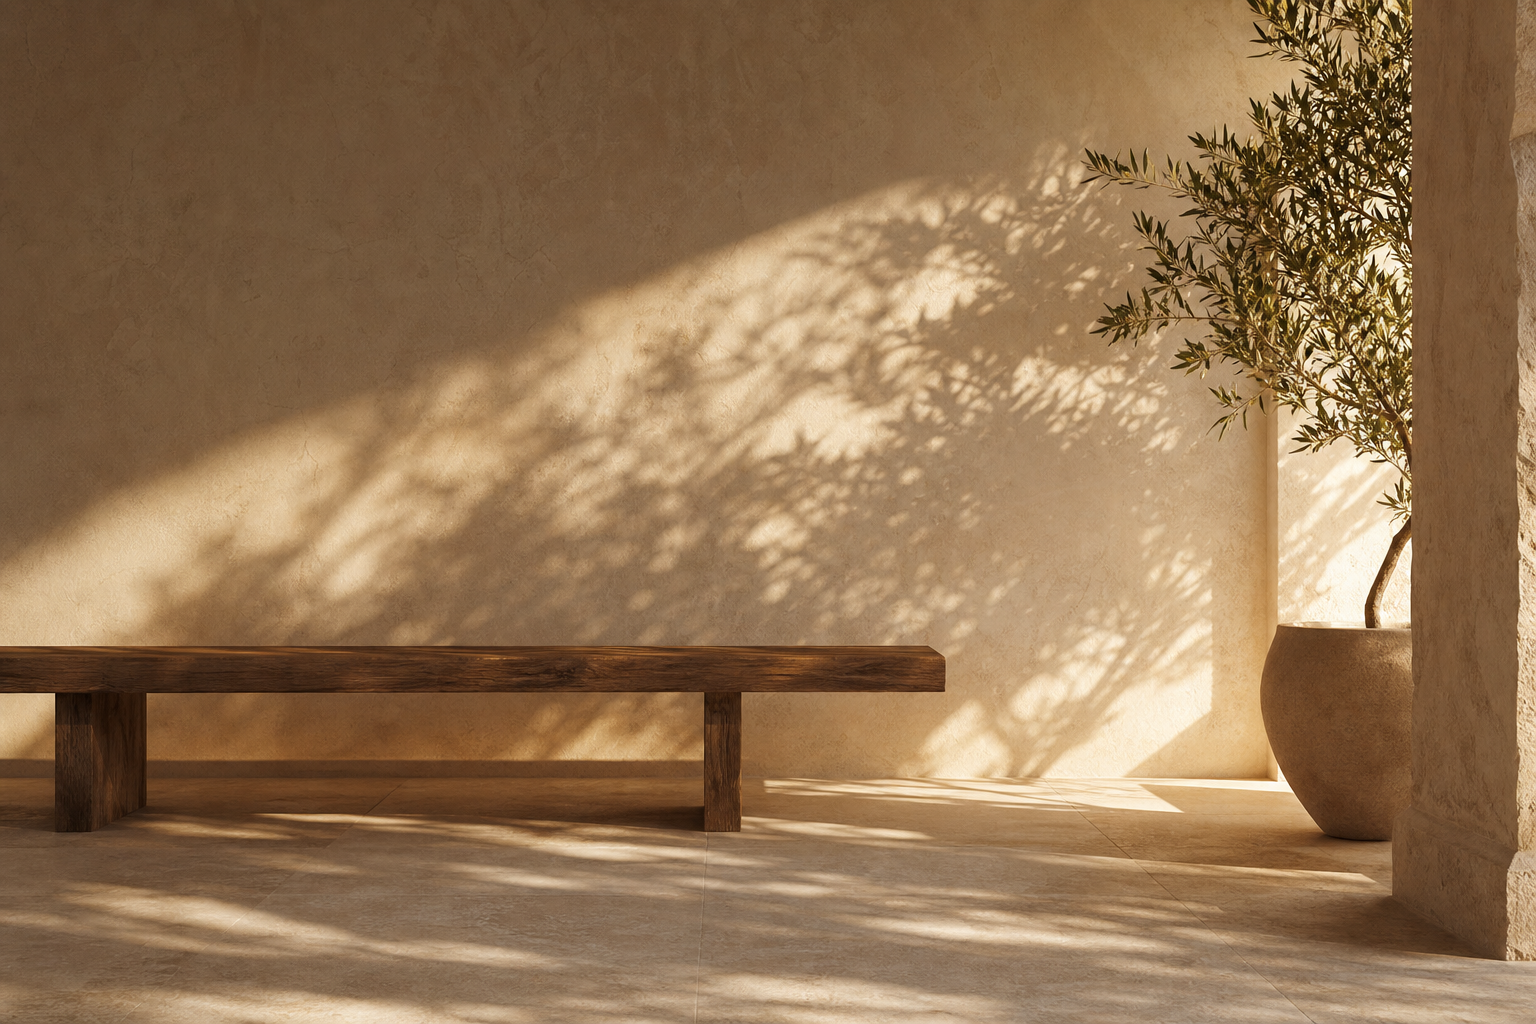
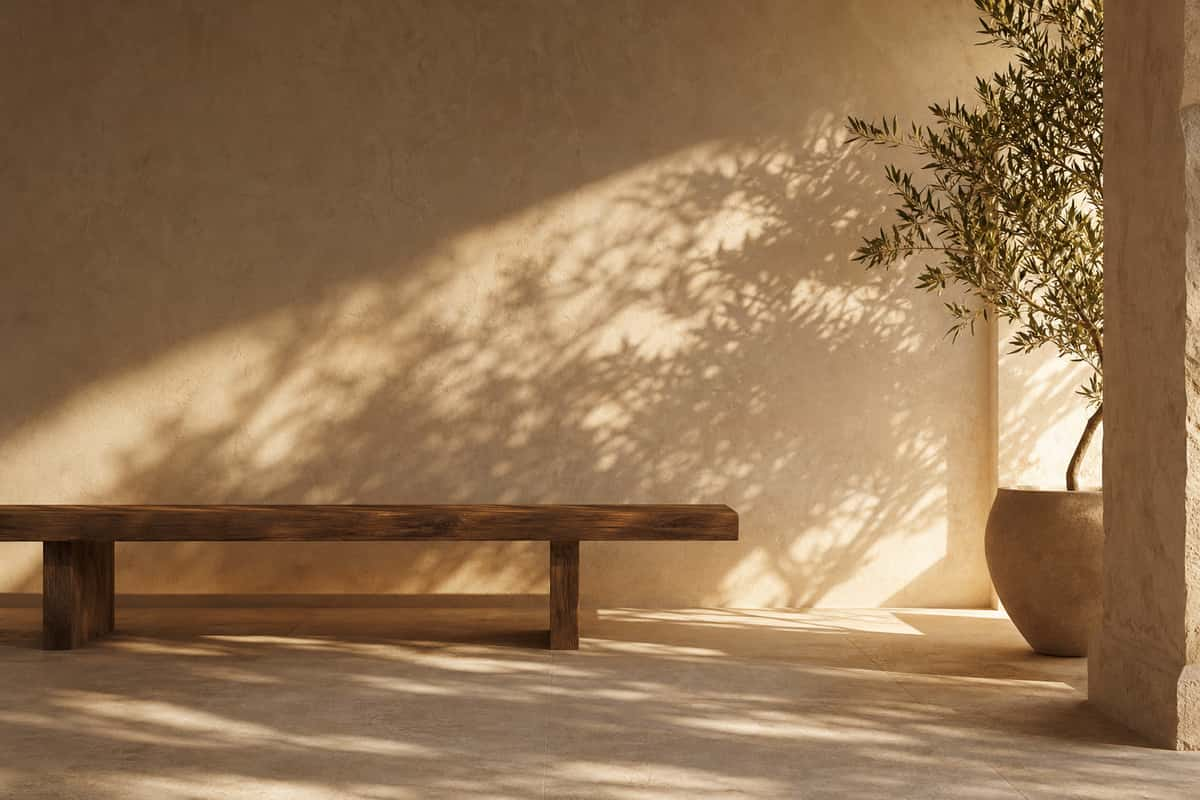
Speed up storefront: compress images and enable Next image optimization
Cut public assets from ~13MB to ~1.7MB, prefer WebP, enable image optimization, and trim unused fonts/backdrop cost.

Changed region(s): [[0.8017, 0.0, 0.925, 0.4688]]

diff --git a/lib/data/products.ts b/lib/data/products.ts
@@ -27,7 +27,7 @@ export const products: Product[] = [
     description_ar: "شنطة tote من القش المنسوج بمقابض جلد — مثالية للبحر والويكند.",
     price: 890,
     comparePrice: 1100,
-    images: ["/images/product-placeholder.jpg"],
+    images: ["/images/product-placeholder.webp"],
     categoryId: "cat-1",
     brand: "Trendy Seasons",
     stock: 24,
@@ -45,7 +45,7 @@ export const products: Product[] = [
     description_en: "Compact crossbody in soft vegan leather with adjustable strap and gold hardware.",
     description_ar: "شنطة crossbody صغيرة من الجلد النباتي الناعم بحزام قابل للتعديل وتفاصيل ذهبية.",
     price: 650,
-    images: ["/images/product-placeholder.jpg"],
+    images: ["/images/product-placeholder.webp"],
     categoryId: "cat-1",
     brand: "Mango",
     stock: 18,
@@ -63,7 +63,7 @@ export const products: Product[] = [
     description_en: "Handwoven raffia shoulder bag with a relaxed summer silhouette and magnetic closure.",
     description_ar: "شنطة كتف منسوجة يدوياً من الرافia بستايل صيفي مريح وإغلاق مغناطيسي.",
     price: 720,
-    images: ["/images/product-placeholder.jpg"],
+    images: ["/images/product-placeholder.webp"],
     categoryId: "cat-1",
     brand: "Zara",
     stock: 15,
@@ -82,7 +82,7 @@ export const products: Product[] = [
     description_ar: "طرحة كتان خفيفة بتدرج رملي ومرجاني — مثالية للأمسيات الهوائية.",
     price: 320,
     comparePrice: 400,
-    images: ["/images/product-placeholder.jpg"],
+    images: ["/images/product-placeholder.webp"],
     categoryId: "cat-2",
     brand: "Trendy Seasons",
     stock: 30,
@@ -100,7 +100,7 @@ export const products: Product[] = [
     description_en: "Lightweight silk-blend wrap for elegant layering over summer dresses.",
     description_ar: "شال خفيف من مزيج الحرير للطبقات الأنيقة فوق الفساتين الصيفية.",
     price: 480,
-    images: ["/images/product-placeholder.jpg"],
+    images: ["/images/product-placeholder.webp"],
     categoryId: "cat-2",
     brand: "H&M",
     stock: 20,
@@ -118,7 +118,7 @@ export const products: Product[] = [
     description_en: "Long-wear matte lipstick in a warm coral shade — summer's most flattering color.",
     description_ar: "أحمر شفاه matte ثابت بلون مرجاني دافئ — أجمل لون للصيف.",
     price: 280,
-    images: ["/images/product-placeholder.jpg"],
+    images: ["/images/product-placeholder.webp"],
     categoryId: "cat-3",
     brand: "MAC",
     stock: 40,
@@ -137,7 +137,7 @@ export const products: Product[] = [
     description_ar: "بلاشر كريمي stick بلمعة طبيعية كأنك في الشمس — سهل التوزيع والطبقات.",
     price: 350,
     comparePrice: 420,
-    images: ["/images/product-placeholder.jpg"],
+    images: ["/images/product-placeholder.webp"],
     categoryId: "cat-3",
     brand: "Rare Beauty",
     stock: 28,
@@ -155,7 +155,7 @@ export const products: Product[] = [
     description_en: "Smudge-proof waterproof mascara for pool days and humid summer weather.",
     description_ar: "ماسكارا waterproof مقاومة للتلطخ — للمسبح والجو الرطب في الصيف.",
     price: 220,
-    images: ["/images/product-placeholder.jpg"],
+    images: ["/images/product-placeholder.webp"],
     categoryId: "cat-3",
     brand: "Maybelline",
     stock: 35,
@@ -174,7 +174,7 @@ export const products: Product[] = [
     description_ar: "واقي شمس SPF 50+ خفيف غير دهني بحماية واسعة من UVA/UVB.",
     price: 450,
     comparePrice: 520,
-    images: ["/images/product-placeholder.jpg"],
+    images: ["/images/product-placeholder.webp"],
     categoryId: "cat-4",
     brand: "La Roche-Posay",
     stock: 50,
@@ -192,7 +192,7 @@ export const products: Product[] = [
     description_en: "Deep hydration serum with hyaluronic acid — plumps and refreshes sun-exposed skin.",
     description_ar: "سيرum ترطيب عميق بـ hyaluronic acid — ينعّم ويرطب البشرة بعد الشمس.",
     price: 380,
-    images: ["/images/product-placeholder.jpg"],
+    images: ["/images/product-placeholder.webp"],
     categoryId: "cat-4",
     brand: "The Ordinary",
     stock: 42,
@@ -210,7 +210,7 @@ export const products: Product[] = [
     description_en: "Cooling aloe vera gel to soothe and moisturize skin after sun exposure.",
     description_ar: "جل aloe vera منعش لتهدئة وترطيب البشرة بعد التعرض للشمس.",
     price: 180,
-    images: ["/images/product-placeholder.jpg"],
+    images: ["/images/product-placeholder.webp"],
     categoryId: "cat-4",
     brand: "Trendy Seasons",
     stock: 60,
@@ -229,7 +229,7 @@ export const products: Product[] = [
     description_ar: "نظارة شمسية cat-eye كلاسيكية بحماية UV400 وإطار tortoise.",
     price: 420,
     comparePrice: 500,
-    images: ["/images/product-placeholder.jpg"],
+    images: ["/images/product-placeholder.webp"],
     categoryId: "cat-5",
     brand: "Ray-Ban",
     stock: 22,
@@ -247,7 +247,7 @@ export const products: Product[] = [
     description_en: "Vintage-inspired round sunglasses with gradient lenses and gold metal frame.",
     description_ar: "نظارة شمسية round retro بإطار معدني ذهبي وعدسات gradient.",
     price: 350,
-    images: ["/images/product-placeholder.jpg"],
+    images: ["/images/product-placeholder.webp"],
     categoryId: "cat-5",
     brand: "Quay",
     stock: 19,
@@ -265,7 +265,7 @@ export const products: Product[] = [
     description_en: "Delicate gold-plated shell anklet — a subtle beach-inspired summer accessory.",
     description_ar: "خلخال رقيق مطلي ذهب على شكل صدفة — إكسسوار صيفي لطيف.",
     price: 190,
-    images: ["/images/product-placeholder.jpg"],
+    images: ["/images/product-placeholder.webp"],
     categoryId: "cat-6",
     brand: "Pandora",
     stock: 45,
@@ -284,7 +284,7 @@ export const products: Product[] = [
     description_ar: "طقم 3 مشابك شعر بلؤلؤ — لتسريحات صيفية سهلة وأنيقة.",
     price: 150,
     comparePrice: 190,
-    images: ["/images/product-placeholder.jpg"],
+    images: ["/images/product-placeholder.webp"],
     categoryId: "cat-6",
     brand: "Trendy Seasons",
     stock: 55,

diff --git a/app/[locale]/layout.tsx b/app/[locale]/layout.tsx
@@ -2,7 +2,6 @@ import { NextIntlClientProvider } from "next-intl";
 import { getMessages } from "next-intl/server";
 import { notFound } from "next/navigation";
 import { routing } from "@/i18n/routing";
-import { Geist, Geist_Mono } from "next/font/google";
 import { Noto_Sans_Arabic } from "next/font/google";
 import { DocumentLocale } from "@/components/document-locale";
 import { ThemeProvider } from "@/components/theme-provider";
@@ -11,23 +10,13 @@ import { AuthProvider } from "@/lib/context/auth-context";
 import { Toaster } from "@/components/ui/sonner";
 import { StorefrontLayout } from "@/components/storefront/storefront-layout";
 import { NavigationProgress } from "@/components/navigation-progress";
-import "../globals.css";
 import { Analytics } from "@vercel/analytics/next";
-
-const geistSans = Geist({
-  subsets: ["latin"],
-  variable: "--font-geist-sans",
-});
-
-const geistMono = Geist_Mono({
-  subsets: ["latin"],
-  variable: "--font-mono",
-});
 
 const notoArabic = Noto_Sans_Arabic({
   subsets: ["arabic"],
   variable: "--font-noto-arabic",
-  weight: ["400", "500", "600", "700"],
+  weight: ["400", "500", "600"],
+  display: "swap",
 });
 
 export default async function LocaleLayout({

diff --git a/app/layout.tsx b/app/layout.tsx
@@ -1,23 +1,19 @@
 import type { Metadata, Viewport } from "next";
-import { Geist, Geist_Mono, Cormorant_Garamond } from "next/font/google";
-import { Analytics } from "@vercel/analytics/next";
+import { Geist, Cormorant_Garamond } from "next/font/google";
 import "./globals.css";
 
 const geistSans = Geist({
   subsets: ["latin"],
   variable: "--font-geist-sans",
-});
-
-const geistMono = Geist_Mono({
-  subsets: ["latin"],
-  variable: "--font-mono",
+  display: "swap",
 });
 
 const cormorant = Cormorant_Garamond({
   subsets: ["latin"],
   variable: "--font-cormorant",
-  weight: ["300", "400", "500", "600"],
+  weight: ["300", "400", "500"],
   style: ["normal", "italic"],
+  display: "swap",
 });
 
 export const metadata: Metadata = {
@@ -47,7 +43,7 @@ export default function RootLayout({
   return (
     <html lang="en" suppressHydrationWarning>
       <body
-        className={`${geistSans.variable} ${geistMono.variable} ${cormorant.variable} font-sans antialiased`}
+        className={`${geistSans.variable} ${cormorant.variable} font-sans antialiased`}
       >
         {children}
       </body>

diff --git a/app/globals.css b/app/globals.css
@@ -137,15 +137,22 @@
   font-family: var(--font-display);
 }
 
-/* Mediterranean site backdrop */
+/* Mediterranean site backdrop — light webp, no fixed attachment (faster on mobile) */
 .storefront-backdrop {
   background-color: oklch(0.975 0.012 85);
   background-image:
-    linear-gradient(to bottom, oklch(0.975 0.012 85 / 0.78), oklch(0.96 0.014 85 / 0.9)),
-    url('/images/mediterranean-bg.jpg');
+    linear-gradient(to bottom, oklch(0.975 0.012 85 / 0.82), oklch(0.96 0.014 85 / 0.92)),
+    url('/images/mediterranean-bg.webp');
   background-size: cover;
   background-position: center top;
-  background-attachment: fixed;
+  background-repeat: no-repeat;
+  background-attachment: scroll;
+}
+
+@media (min-width: 1024px) {
+  .storefront-backdrop {
+    background-attachment: fixed;
+  }
 }
 
 .storefront-content-layer {

diff --git a/components/home/home-content.tsx b/components/home/home-content.tsx
@@ -38,12 +38,14 @@ export function HomeContent({ featured, deals, categories }: HomeContentProps) {
       <section className="relative -mt-14 min-h-[100svh] w-full overflow-hidden sm:-mt-16">
         <div className="absolute inset-0">
           <Image
-            src="/images/hero-summer.jpg"
+            src="/images/hero-summer.webp"
             alt={t("hero_image_alt")}
             fill
             className="object-cover object-[center_22%]"
             priority
+            fetchPriority="high"
             sizes="100vw"
+            quality={75}
           />
           <div className="absolute inset-0 bg-gradient-to-b from-[#FAF7F2]/40 via-[#FAF7F2]/45 to-[#FAF7F2]/90" />
           <div className="absolute inset-0 bg-gradient-to-r from-[#FAF7F2]/35 via-transparent to-[#FAF7F2]/35" />

diff --git a/components/storefront/product-card.tsx b/components/storefront/product-card.tsx
@@ -12,7 +12,7 @@ import { Card, CardContent } from "@/components/ui/card";
 import { toast } from "sonner";
 import { ShoppingCart, Star } from "lucide-react";
 
-const PLACEHOLDER = "/images/product-placeholder.jpg";
+const PLACEHOLDER = "/images/product-placeholder.webp";
 
 interface ProductCardProps {
   product: Product;
@@ -50,6 +50,9 @@ export function ProductCard({ product }: ProductCardProps) {
             alt={name}
             width={400}
             height={400}
+            sizes="(max-width: 640px) 50vw, (max-width: 1024px) 33vw, 25vw"
+            quality={70}
+            loading="lazy"
             className="h-full w-full object-cover transition-transform duration-700 group-hover:scale-[1.03]"
           />
         </div>

diff --git a/components/products/product-detail-content.tsx b/components/products/product-detail-content.tsx
@@ -66,12 +66,14 @@ export function ProductDetailContent({ product, category, related }: ProductDeta
                 src={
                   allImages[selectedImageIdx] && !allImages[selectedImageIdx].includes("placeholder.svg")
                     ? allImages[selectedImageIdx]
-                    : "/images/product-placeholder.jpg"
+                    : "/images/product-placeholder.webp"
                 }
                 alt={name}
                 fill
                 className="object-cover"
                 priority
+                sizes="(max-width: 1024px) 100vw, 50vw"
+                quality={75}
               />
               {allImages.length > 1 && (
                 <>
